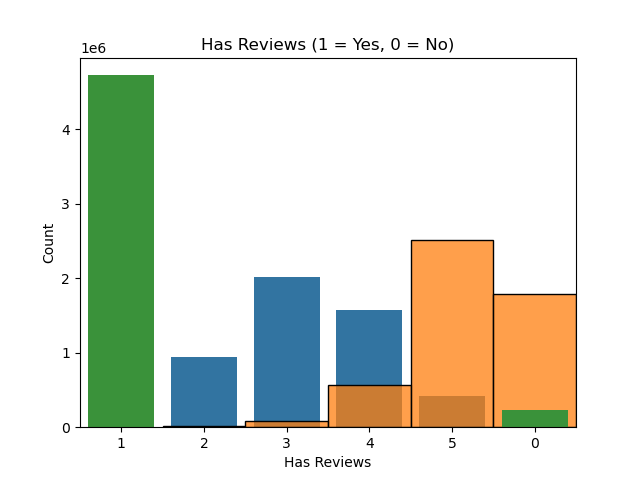
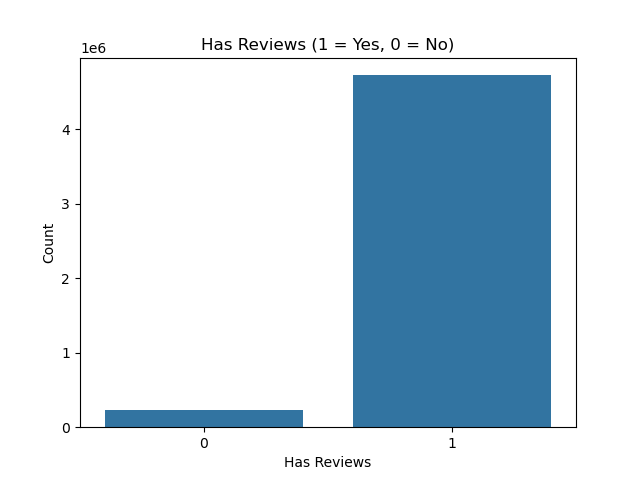
finished graph for filled and engineered variables

diff --git a/engineering/join_comp_data.py b/engineering/join_comp_data.py
@@ -3,9 +3,12 @@ import numpy as np
 import os
 
 dir = os.path.dirname(os.path.realpath(__file__)) + os.path.sep + ".." + os.path.sep
-df = pd.read_csv(dir + "data/updated_dataset.csv")
+df = pd.read_csv(dir + "data/cleaned_dataset.csv")
 
-# 1) Price comparison summary:  
+# Create purchase history feature
+df['purchase_history'] = df['visitor_hist_starrating'].notnull().astype(int)
+
+# Price comparison summary:  
 #    +1 if Expedia is cheaper than every competitor with data,  
 #     0 if it’s never strictly cheaper nor strictly more expensive,  
 #    −1 if it’s more expensive than any competitor.
@@ -13,28 +16,16 @@ rate_cols = [f"comp{i}_rate" for i in range(1,9)]
 valid = df[rate_cols].notna()
 exp_cheapest   =  (df[rate_cols] == 1).where(valid, True).all(axis=1)
 exp_not_cheapest   =  (df[rate_cols] == -1).any(axis=1)
-df["price_cmp"] = (
+df["price_comp"] = (
     +1 * exp_cheapest
     +0 * (~exp_cheapest & ~exp_not_cheapest)
     -1 * exp_not_cheapest
 ).astype(int)
 
 
-# 2) Any competitor has availability?  
+# Any competitor has availability?  
 #    compX_inv == 0 means “competitor X has availability”  
 inv_cols = [f"comp{i}_inv" for i in range(1,9)]
 df["any_comp_avail"] = df[inv_cols].eq(0).any(axis=1).astype(int)
-
-
-# 3) Min/Max percent‐diff depending on who’s cheapest:  
-#    If Expedia is the cheapest (price_cmp==+1): take the minimum of compX_rate_percent_diff across competitors with data.  
-#    Otherwise take the maximum of those diffs.
-pct_cols = [f"comp{i}_rate_percent_diff" for i in range(1,9)]
-diff = pd.Series(np.nan, index=df.index)
-m0 = df["price_cmp"] == +1
-m1 = ~m0
-diff.loc[m0] = df.loc[m0, pct_cols].min(axis=1)
-diff.loc[m1] = df.loc[m1, pct_cols].max(axis=1)
-df["pct_diff_rollup"] = diff
 
 df.to_csv(dir + 'data/updated_dataset.csv', index=False)

diff --git a/cleaning/test_cleaning.py b/cleaning/test_cleaning.py
@@ -11,6 +11,8 @@ zero_count = (df_dirty['prop_starrating'] == 0).sum()
 print(f'prop_starrating {zero_count}')
 print(df_dirty[['prop_review_score']].isna().sum())
 
+zero_count = (df_clean['prop_starrating'] == 0).sum()
+print(f'prop_starrating (zero) {zero_count}')
 print(df_clean[['prop_starrating', 'prop_review_score', 'has_reviews']].isna().sum())
 print(df_clean[['prop_starrating', 'prop_review_score', 'has_reviews']].dtypes)
 
@@ -19,17 +21,23 @@ plt.title("Distribution of Property Star Ratings")
 plt.xlabel("Star Rating")
 plt.ylabel("Count")
 plt.savefig(dir + "images/prop_starrating.png")
+plt.clf()
+print("'prop_starrating' summary:")
+print(df_clean['prop_starrating'].describe())
 
-sns.histplot(x='prop_review_score', data=df_clean, discrete=True)
+sns.histplot(x='prop_review_score', data=df_clean, bins=10)
 plt.title("Distribution of Review Scores")
 plt.xlabel("Review Score")
 plt.ylabel("Count")
 plt.savefig(dir + "images/prop_review_score.png")
+plt.clf()
+print("'prop_review_score' summary:")
+print(df_clean['prop_review_score'].describe())
 
 sns.countplot(x='has_reviews', data=df_clean)
 plt.title("Has Reviews (1 = Yes, 0 = No)")
 plt.xlabel("Has Reviews")
 plt.ylabel("Count")
 plt.savefig(dir + "images/has_reviews.png")
-
+print("'has_reviews' summary:")
 print(df_clean['has_reviews'].describe())

diff --git a/engineering/test_engineering.py b/engineering/test_engineering.py
@@ -1,0 +1,28 @@
+import os
+import pandas as pd
+import seaborn as sns
+import matplotlib.pyplot as plt
+
+dir = os.path.dirname(os.path.realpath(__file__)) + os.path.sep + ".." + os.path.sep
+df_old = pd.read_csv(dir + "data/training_set_VU_DM.csv")
+df_new = pd.read_csv(dir + "data/updated_dataset.csv")
+
+print("Original shape:", df_old.shape)
+print("New shape:", df_new.shape)
+
+print(df_new[['purchase_history', 'price_comp', 'any_comp_avail']].isna().sum())
+print(df_new[['purchase_history', 'price_comp', 'any_comp_avail']].dtypes)
+
+columns_to_plot = ['purchase_history', 'price_comp', 'any_comp_avail']
+
+for col in columns_to_plot:
+    plt.figure(figsize=(6, 4))
+    sns.countplot(x=col, data=df_new)
+    plt.title(f"Distribution of {col}")
+    plt.xlabel(col)
+    plt.ylabel("Count")
+    plt.tight_layout()
+    plt.savefig(dir + f"images/{col}.png")
+    plt.clf()
+    print(f"{col} summary:")
+    print(df_new[col].describe())

diff --git a/cleaning/drop_and_fill.py b/cleaning/drop_and_fill.py
@@ -25,6 +25,9 @@ df = df.drop(columns=[
     'gross_bookings_usd',
     'prop_location_score2'
 ])
+pct_diff_cols = [col for col in df.columns if col.endswith("_rate_percent_diff")]
+df = df.drop(columns=pct_diff_cols)
+
 
 # Features to use for imputations
 features = ['prop_location_score1', 'price_usd']

diff --git a/README.md b/README.md
@@ -2,6 +2,5 @@
 
 1. Run drop_and_fill.py
     - Check (and visualize) with test_cleaning.py
-2. Run purchase_history.py
-3. Run join_comp_data.py
-    - Check size with test_size.py
+2. Run join_comp_data.py
+    - Check (and visualize) with test_engineering.py

diff --git a/columns.md b/columns.md
@@ -51,3 +51,4 @@ Join?
 * `compn_rate` with `null`
 * `compn_inv` with `null`
 * `compn_rate_percent_diff` with `null`
+    - dropped because there existed a difference even when compn_rate = 0 (expedia has same price as competitor)
